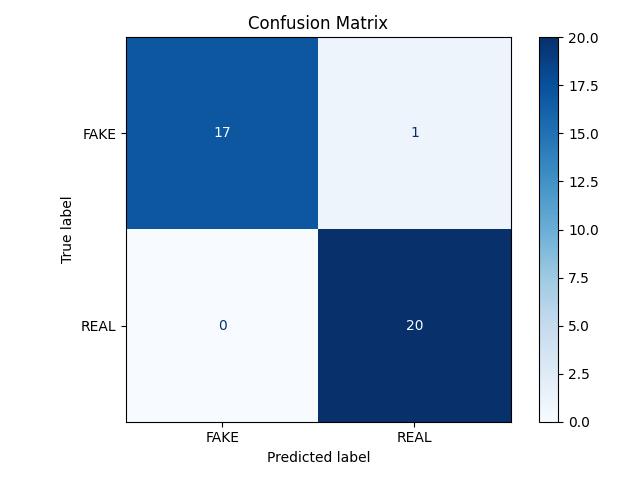
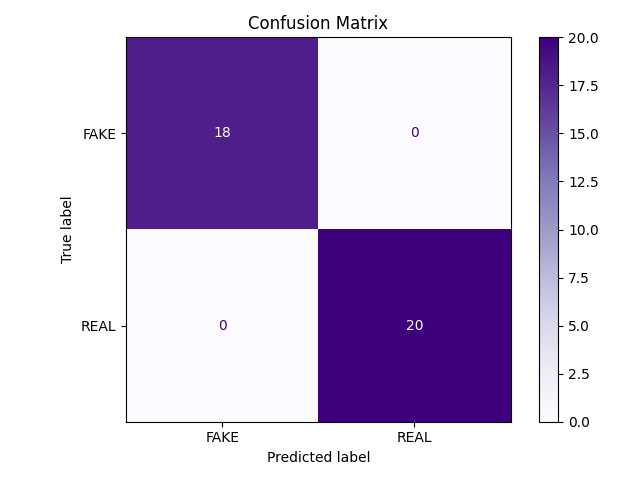
Update: Trained Logistic Regression model and added all final visualizations

diff --git a/app_v2.py b/app_v2.py
@@ -1,111 +1,116 @@
 import streamlit as st
-import joblib
-import os
-from PIL import Image
-import json
 import pandas as pd
-import matplotlib.pyplot as plt
+import joblib
+import json
+from PIL import Image
+import os
 
 # Load model and vectorizer
-model = joblib.load("fake_news_model_v3.joblib")
-vectorizer = joblib.load("vectorizer_v3.joblib")
+model = joblib.load("logreg_model.pkl")
+vectorizer = joblib.load("logreg_vectorizer.pkl")
 
+# Page Config
+st.set_page_config(page_title="Bluffo: Is This Cap?", layout="wide")
 
-# Page Setup
-st.set_page_config(page_title="Bluffo - Fake News Detection", layout="wide")
-
-# Style Overrides
+# Custom Styles
 st.markdown("""
     <style>
         .main {
-            background-color: #1c48ec;
+            background-color: #0f172a;
+            color: white;
         }
         .title {
             font-size: 48px;
             font-weight: 900;
-            color: white;
-            margin-bottom: 10px;
+            color: #22c55e;
         }
         .subtitle {
             font-size: 22px;
-            margin-top: 20px;
+            margin-top: 30px;
             color: #f5f5f5;
         }
         .stTextArea label {
             font-weight: bold;
             color: white;
         }
-        .stMarkdown, .stDataFrame div {
-            color: white !important;
+        .cap-button {
+            background-color: #f43f5e;
+            color: white;
+            font-weight: bold;
+            padding: 0.5em 1em;
+            border-radius: 10px;
+            cursor: pointer;
         }
     </style>
 """, unsafe_allow_html=True)
 
 # Title
-st.markdown('<div class="title">Bluffo - Fake News Detection</div>', unsafe_allow_html=True)
-st.write("Enter a news headline below to check if it's Real or Fake.")
+st.markdown('<div class="title">Bluffo - Is This Cap?</div>', unsafe_allow_html=True)
 
-# Input
-user_input = st.text_area("News Headline", "")
+# ===== CSV Upload Section at Top =====
+st.markdown('<div class="subtitle">📂 Bulk Headline Upload</div>', unsafe_allow_html=True)
+uploaded_file = st.file_uploader("Upload a CSV file with a 'text' column:", type=["csv"])
 
-# Prediction
-if st.button("Analyze"):
+if uploaded_file is not None:
+    df_uploaded = pd.read_csv(uploaded_file)
+    if 'text' in df_uploaded.columns:
+        vect_texts = vectorizer.transform(df_uploaded['text'])
+        preds = model.predict(vect_texts)
+        df_uploaded['Prediction'] = preds
+        df_uploaded['Prediction'] = df_uploaded['Prediction'].map({1: 'REAL', 0: 'FAKE'})
+        st.dataframe(df_uploaded)
+
+        # Pie Chart
+        pie_data = df_uploaded['Prediction'].value_counts()
+        st.markdown("###Prediction Distribution")
+        st.bar_chart(pie_data)
+    else:
+        st.error("CSV must contain a 'text' column.")
+
+st.markdown("---")
+
+# ===== Single Prediction Section =====
+st.markdown('<div class="subtitle">Analyze a Headline</div>', unsafe_allow_html=True)
+user_input = st.text_area("Enter a news headline:", "")
+
+if st.button("🧢 Is This Cap?"):
     if user_input.strip() == "":
-        st.warning("Please enter a news headline.")
+        st.warning("Bruh... Type something!")
     else:
         vect_input = vectorizer.transform([user_input])
         prediction = model.predict(vect_input)[0]
-
         if prediction == 1:
-            st.success("This news is predicted to be REAL.")
+            st.success("This headline is predicted to be **REAL**.")
         else:
-            st.error("This news is predicted to be FAKE.")
+            st.error("This headline is predicted to be **FAKE**.")
 
-# Separator
+# ===== Model Performance =====
 st.markdown("---")
 st.markdown('<div class="subtitle">Model Performance</div>', unsafe_allow_html=True)
 
-# Performance Images
-if os.path.exists("roc_curve_v3.png"):
-    st.markdown("**ROC Curve**")
-    st.image(Image.open("roc_curve_v3.png"), use_container_width=True)
+# Layout for side-by-side plots
+col1, col2, col3 = st.columns(3)
 
 if os.path.exists("confusion_matrix_v3.png"):
-    st.markdown("**Confusion Matrix**")
-    st.image(Image.open("confusion_matrix_v3.png"), use_container_width=True)
+    with col1:
+        st.markdown("**Confusion Matrix**")
+        st.image("confusion_matrix_v3.png", use_container_width=True)
+
+if os.path.exists("roc_curve_v3.png"):
+    with col2:
+        st.markdown("**ROC Curve**")
+        st.image("roc_curve_v3.png", use_container_width=True)
 
 if os.path.exists("precision_recall_v3.png"):
-    st.markdown("**Precision-Recall Curve**")
-    st.image(Image.open("precision_recall_v3.png"), use_container_width=True)
+    with col3:
+        st.markdown("**Precision-Recall Curve**")
+        st.image("precision_recall_v3.png", use_container_width=True)
 
-# Classification Report Table
+# ===== Classification Report =====
 if os.path.exists("classification_metrics_v3.json"):
-    st.markdown("**Classification Report**")
+    st.markdown("###Classification Metrics")
     with open("classification_metrics_v3.json", "r") as f:
         report_data = json.load(f)
         df_report = pd.DataFrame(report_data).transpose().round(2)
         df_report = df_report.dropna(axis=1, how="all")
-        st.dataframe(df_report.style.background_gradient(cmap="Blues"), use_container_width=True)
-
-# CSV Upload Option
-st.markdown("---")
-st.markdown('<div class="subtitle">Upload CSV File</div>', unsafe_allow_html=True)
-uploaded_file = st.file_uploader("Upload a CSV file with a column named 'Headline'", type=["csv"])
-
-if uploaded_file:
-    df_uploaded = pd.read_csv(uploaded_file)
-    if "Headline" in df_uploaded.columns:
-        df_uploaded["Prediction"] = model.predict(vectorizer.transform(df_uploaded["Headline"].astype(str)))
-        st.success("Predictions generated!")
-
-        # Pie chart
-        counts = df_uploaded["Prediction"].value_counts().sort_index()
-        labels = ["Fake", "Real"]
-        plt.figure(figsize=(4, 4))
-        plt.pie(counts, labels=labels, autopct="%1.1f%%", colors=["#e74c3c", "#2ecc71"])
-        plt.title("Prediction Distribution")
-        st.pyplot(plt.gcf())
-
-        st.dataframe(df_uploaded, use_container_width=True)
-    else:
-        st.error("CSV must contain a column named 'Headline'.")
+        st.dataframe(df_report.style.background_gradient(cmap="Greens"), use_container_width=True)

diff --git a/train_model_v2.py b/train_model_v2.py
@@ -1,83 +1,80 @@
 import pandas as pd
-import numpy as np
 import joblib
 import matplotlib.pyplot as plt
 from sklearn.model_selection import train_test_split
-from sklearn.feature_extraction.text import TfidfVectorizer
 from sklearn.linear_model import LogisticRegression
+from sklearn.feature_extraction.text import TfidfVectorizer
 from sklearn.metrics import (
     classification_report,
     confusion_matrix,
     ConfusionMatrixDisplay,
     roc_curve,
-    auc,
-    precision_recall_curve
+    precision_recall_curve,
+    auc
 )
 import json
 
-# Load and preprocess the dataset
+# Load dataset
 df = pd.read_csv("Shuffled_SAMPLE.csv")
 df.columns = ["Sr.No", "text", "label"]
 df.drop("Sr.No", axis=1, inplace=True)
 df["label"] = df["label"].map({"REAL": 1, "FAKE": 0})
 
-# Split dataset
-X_train, X_test, y_train, y_test = train_test_split(
-    df["text"], df["label"], test_size=0.2, random_state=42
-)
+# Split
+X_train, X_test, y_train, y_test = train_test_split(df["text"], df["label"], test_size=0.2, random_state=42)
 
-# TF-IDF vectorizer
+# Vectorize
 vectorizer = TfidfVectorizer(stop_words="english", max_df=0.7)
 X_train_vec = vectorizer.fit_transform(X_train)
 X_test_vec = vectorizer.transform(X_test)
 
 # Train Logistic Regression model
-model = LogisticRegression(max_iter=1000)
+model = LogisticRegression(max_iter=1000, class_weight="balanced")
 model.fit(X_train_vec, y_train)
 
 # Save model and vectorizer
-joblib.dump(model, "fake_news_model_v3.joblib")
-joblib.dump(vectorizer, "vectorizer_v3.joblib")
+joblib.dump(model, "logreg_model.pkl")
+joblib.dump(vectorizer, "logreg_vectorizer.pkl")
 print("Model and vectorizer saved successfully.")
 
-# Predict and evaluate
+# Evaluate
 y_pred = model.predict(X_test_vec)
 
 # Save classification report
-report_dict = classification_report(y_test, y_pred, output_dict=True)
+report = classification_report(y_test, y_pred, output_dict=True)
 with open("classification_metrics_v3.json", "w") as f:
-    json.dump(report_dict, f)
+    json.dump(report, f)
 
-# Save confusion matrix image
+# Confusion matrix
 cm = confusion_matrix(y_test, y_pred)
 disp = ConfusionMatrixDisplay(confusion_matrix=cm, display_labels=["FAKE", "REAL"])
-disp.plot(cmap="Blues")
+disp.plot(cmap="Purples")
 plt.title("Confusion Matrix")
 plt.tight_layout()
 plt.savefig("confusion_matrix_v3.png")
 plt.close()
 
-# Save ROC curve
+# ROC Curve
 fpr, tpr, _ = roc_curve(y_test, model.predict_proba(X_test_vec)[:, 1])
 roc_auc = auc(fpr, tpr)
 plt.figure()
-plt.plot(fpr, tpr, color="darkorange", lw=2, label=f"ROC curve (AUC = {roc_auc:.2f})")
-plt.plot([0, 1], [0, 1], color="navy", lw=2, linestyle="--")
+plt.plot(fpr, tpr, color="darkorange", lw=2, label=f"AUC = {roc_auc:.2f}")
+plt.plot([0, 1], [0, 1], color="navy", linestyle="--")
+plt.title("ROC Curve")
 plt.xlabel("False Positive Rate")
 plt.ylabel("True Positive Rate")
-plt.title("Receiver Operating Characteristic")
-plt.legend(loc="lower right")
+plt.legend()
 plt.tight_layout()
 plt.savefig("roc_curve_v3.png")
 plt.close()
 
-# Save Precision-Recall curve
+# Precision-Recall Curve
 precision, recall, _ = precision_recall_curve(y_test, model.predict_proba(X_test_vec)[:, 1])
 plt.figure()
-plt.plot(recall, precision, color="green", lw=2)
+plt.plot(recall, precision, lw=2, color="green")
+plt.title("Precision-Recall Curve")
 plt.xlabel("Recall")
 plt.ylabel("Precision")
-plt.title("Precision-Recall Curve")
 plt.tight_layout()
 plt.savefig("precision_recall_v3.png")
 plt.close()
